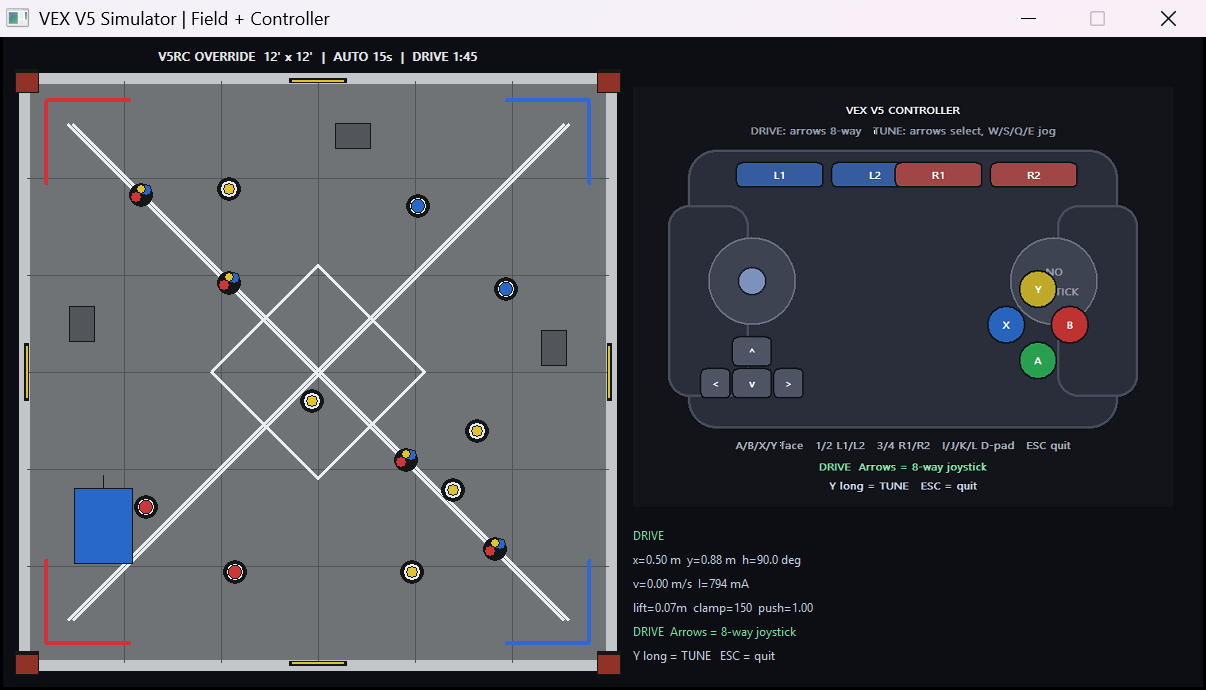
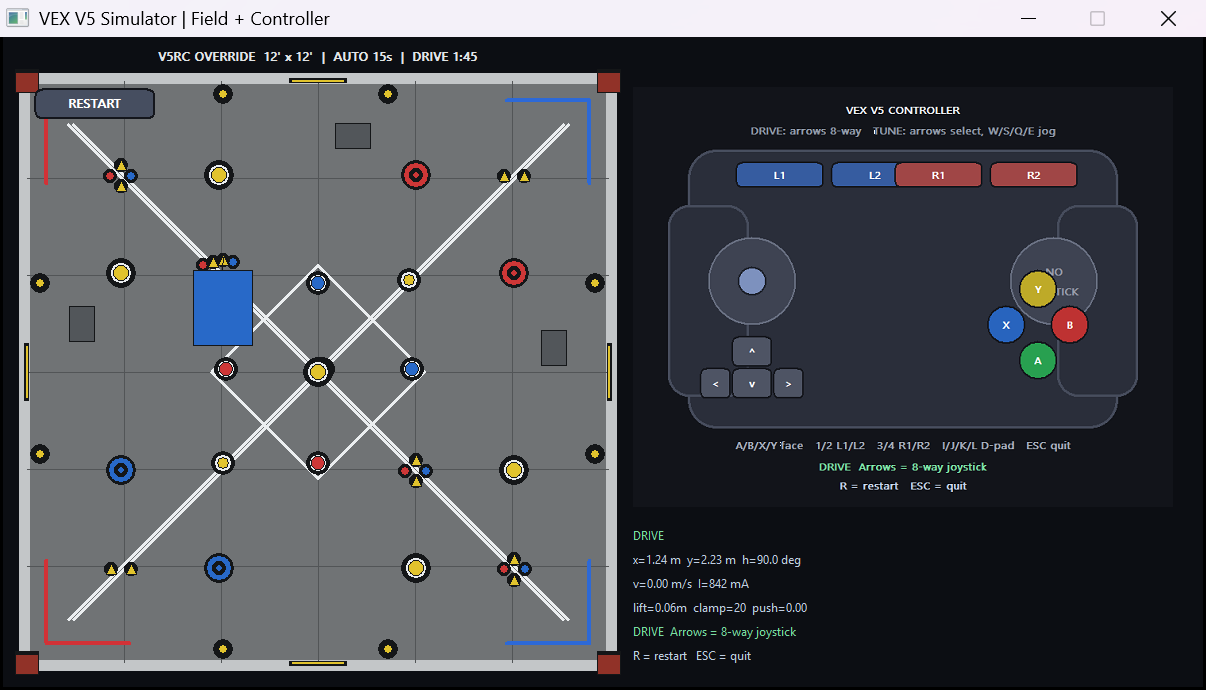
Add Toggle rotation simulation and field clipping
- Model four perimeter Toggles with contact-driven rotation, detents, and seated color

- Show Toggle face color in the UI; contacting or unseated Toggles stay neutral yellow

- Clamp out-of-bounds robots back into the field and clip trail/robot drawing

- Refresh UI example screenshots and add Toggle regression tests

diff --git a/sim/controller_ui_main.cpp b/sim/controller_ui_main.cpp
@@ -10,10 +10,12 @@
 #include "sim/hardware/sim_motor.hpp"
 #include "sim/physics/chassis_sim.hpp"
 #include "sim/physics/cone_field.hpp"
+#include "sim/physics/toggle_field.hpp"
 #include "sim/ui/controller_ui.hpp"
 #include "tuning/param_apply.hpp"
 #include "tuning/params_manager.hpp"
 
+#include <algorithm>
 #include <chrono>
 #include <cmath>
 #include <cstdio>
@@ -35,18 +37,27 @@ constexpr double kGoalPositions[7][2] = {{0.655, 0.345}, {0.510, 0.495}, {0.340,
 constexpr double kSleeveGrid[9][2] = {{1, 2}, {2, 1}, {3, 3}, {4, 5}, {5, 4},
                                       {1, 4}, {2, 5}, {4, 1}, {5, 2}};
 
-void updateFieldCollision(sim_physics::ChassisSim &physics, const sim::ControllerUi &ui,
-                          sim_physics::ConeField &cones) {
+void updateFieldCollision(sim_physics::ChassisSim &physics, sim_physics::ConeField &cones,
+                          sim_physics::ToggleField &toggles) {
     const double x = physics.getPoseXMeters();
     const double y = physics.getPoseYMeters();
     const double speed = physics.getChassisVelocityMps();
     const double heading_rad = physics.getPoseHeadingDeg() * 3.141592653589793 / 180.0;
-    cones.update(0.016, x, y, speed * std::cos(heading_rad), speed * std::sin(heading_rad));
+    const double vx = speed * std::cos(heading_rad);
+    const double vy = speed * std::sin(heading_rad);
+    cones.update(0.016, x, y, vx, vy);
+    toggles.update(0.016, x, y, vx, vy);
 
-    const bool outside = (x < 0.25 || x > kFieldSizeM - 0.25 || y < 0.25 || y > kFieldSizeM - 0.25);
+    constexpr double kBoundaryMarginM = 0.25;
+    const bool outside = (x < kBoundaryMarginM || x > kFieldSizeM - kBoundaryMarginM ||
+                          y < kBoundaryMarginM || y > kFieldSizeM - kBoundaryMarginM);
 
     // 顶到场地边界时形成“墙”；操作手反向时解除，允许倒车回场。
-    if (outside && ui.analog(io::Analog::LeftY) >= 0) {
+    if (outside) {
+        // 不管从哪个方向越界都夹回场地；否则侧向越界时会被画到控制器面板上。
+        physics.setPose(std::clamp(x, kBoundaryMarginM, kFieldSizeM - kBoundaryMarginM),
+                        std::clamp(y, kBoundaryMarginM, kFieldSizeM - kBoundaryMarginM),
+                        physics.getPoseHeadingDeg());
         physics.setCollisionObject(sim_physics::CollisionObject::Wall);
         return;
     }
@@ -121,6 +132,7 @@ int main() {
     sim_physics::ChassisSim physics(&lf, &lb, &rf, &rb, &imu);
     physics.setPose(0.50, 0.12, 90.0); // 底侧起始位，面朝场地中心
     sim_physics::ConeField cones;
+    sim_physics::ToggleField toggles;
     g_physics = &physics;
     sim::register_physics_tick(physicsTick);
 
@@ -145,6 +157,7 @@ int main() {
     auto resetSimulation = [&]() {
         physics.reset();
         cones.reset();
+        toggles.reset();
         mechanism.reset();
         sim::Battery::reset();
         sim::init_clock();
@@ -159,6 +172,7 @@ int main() {
         physics.reset();
         physics.setPose(pose.x_m, pose.y_m, pose.heading_deg);
         cones.reset();
+        toggles.reset();
         mechanism.reset();
         sim::Battery::reset();
         sim::init_clock();
@@ -201,6 +215,12 @@ int main() {
                 field.cones[i].out_of_bounds = cone.out_of_bounds;
                 field.cones[i].color = static_cast<int>(cone.color);
             }
+            field.toggle_count = toggles.count();
+            for (int i = 0; i < field.toggle_count; ++i) {
+                const sim_physics::ToggleState &toggle = toggles.get(i);
+                field.toggles[i].seated = toggle.seated;
+                field.toggles[i].color = static_cast<int>(toggle.face);
+            }
             field.mode = static_cast<int>(control::Mode::Drive);
             ui.setFieldState(field);
             ui.setStatusText("PLACEMENT", "Drag robot, then ENTER or click START");
@@ -210,7 +230,7 @@ int main() {
         }
 
         // 固定 1ms 物理步进，渲染约 60Hz。
-        updateFieldCollision(physics, ui, cones);
+        updateFieldCollision(physics, cones, toggles);
         for (int i = 0; i < 16; ++i) {
             sim::advance_time(0.001);
             mechanism.update(0.001);
@@ -240,6 +260,12 @@ int main() {
             field.cones[i].active = cone.active;
             field.cones[i].out_of_bounds = cone.out_of_bounds;
             field.cones[i].color = static_cast<int>(cone.color);
+        }
+        field.toggle_count = toggles.count();
+        for (int i = 0; i < field.toggle_count; ++i) {
+            const sim_physics::ToggleState &toggle = toggles.get(i);
+            field.toggles[i].seated = toggle.seated;
+            field.toggles[i].color = static_cast<int>(toggle.face);
         }
         field.mode = static_cast<int>(loop.getMode());
         ui.setFieldState(field);

diff --git a/sim/physics/toggle_field.cpp b/sim/physics/toggle_field.cpp
@@ -1,0 +1,114 @@
+#include "sim/physics/toggle_field.hpp"
+
+#include <algorithm>
+#include <cmath>
+
+namespace sim_physics {
+
+namespace {
+
+constexpr double kToggleRadiusM = 0.28;
+constexpr double kToggleRotationDegPerMps = 240.0;
+constexpr double kToggleSnapPerSec = 8.0;
+
+double normalizeAngle(double angle_deg) {
+    while (angle_deg < 0.0)
+        angle_deg += 360.0;
+    while (angle_deg >= 360.0)
+        angle_deg -= 360.0;
+    return angle_deg;
+}
+
+} // namespace
+
+ToggleField::ToggleField(double field_size_m) : m_field_size_m(field_size_m) {
+    reset();
+}
+
+void ToggleField::reset() {
+    const double edge = 0.18;
+    for (int i = 0; i < kToggleCount; ++i) {
+        ToggleState &toggle = m_toggles[i];
+        toggle.angle_deg = 240.0;
+        toggle.seated = true;
+        toggle.touching = false;
+        toggle.quadrant = i;
+        toggle.face = ToggleColor::Yellow;
+    }
+    m_toggles[0].x_m = 0.5 * m_field_size_m;
+    m_toggles[0].y_m = m_field_size_m - edge;
+    m_toggles[1].x_m = m_field_size_m - edge;
+    m_toggles[1].y_m = 0.5 * m_field_size_m;
+    m_toggles[2].x_m = 0.5 * m_field_size_m;
+    m_toggles[2].y_m = edge;
+    m_toggles[3].x_m = edge;
+    m_toggles[3].y_m = 0.5 * m_field_size_m;
+}
+
+double ToggleField::nearestDetent(double angle_deg) const {
+    const int index = static_cast<int>(std::round(normalizeAngle(angle_deg) / 120.0)) % 3;
+    return static_cast<double>(index * 120);
+}
+
+ToggleColor ToggleField::colorForAngle(double angle_deg) const {
+    const int index = static_cast<int>(std::round(normalizeAngle(angle_deg) / 120.0)) % 3;
+    if (index == 0)
+        return ToggleColor::Red;
+    if (index == 1)
+        return ToggleColor::Blue;
+    return ToggleColor::Yellow;
+}
+
+void ToggleField::update(double dt_sec, double robot_x_m, double robot_y_m, double robot_vx_mps,
+                         double robot_vy_mps) {
+    if (!(dt_sec > 0.0))
+        return;
+
+    for (int i = 0; i < kToggleCount; ++i) {
+        ToggleState &toggle = m_toggles[i];
+        const double dx = robot_x_m - toggle.x_m;
+        const double dy = robot_y_m - toggle.y_m;
+        const bool touching = dx * dx + dy * dy < kToggleRadiusM * kToggleRadiusM;
+        toggle.touching = touching;
+
+        if (touching) {
+            toggle.seated = false;
+            toggle.face = ToggleColor::Yellow;
+            const bool vertical = i == 1 || i == 3;
+            const double tangent_speed = vertical ? robot_vy_mps : robot_vx_mps;
+            toggle.angle_deg = normalizeAngle(toggle.angle_deg +
+                                              tangent_speed * kToggleRotationDegPerMps * dt_sec);
+            continue;
+        }
+
+        const double target = nearestDetent(toggle.angle_deg);
+        double difference = target - toggle.angle_deg;
+        if (difference > 180.0)
+            difference -= 360.0;
+        if (difference < -180.0)
+            difference += 360.0;
+        toggle.angle_deg = normalizeAngle(toggle.angle_deg +
+                                          difference * std::min(1.0, kToggleSnapPerSec * dt_sec));
+        if (std::fabs(difference) < 1.0) {
+            toggle.angle_deg = target;
+            toggle.seated = true;
+            toggle.face = colorForAngle(target);
+        } else {
+            toggle.seated = false;
+            toggle.face = ToggleColor::Yellow;
+        }
+    }
+}
+
+const ToggleState &ToggleField::get(int index) const {
+    static const ToggleState kEmpty{};
+    if (index < 0 || index >= kToggleCount)
+        return kEmpty;
+    return m_toggles[index];
+}
+
+int ToggleField::count() const {
+    return kToggleCount;
+}
+
+} // namespace sim_physics

diff --git a/sim/ui/controller_ui.cpp b/sim/ui/controller_ui.cpp
@@ -774,7 +774,7 @@ void ControllerUi::paintField(HDC dc, int x, int y, int size) {
         }
     }
 
-    // 4 个三色筒：四边中点，当前朝向为黄色。
+    // 4 个 Toggle：颜色由 ToggleField 的吸附状态决定，未就位显示黄色。
     const int bar = size / 10;
     const int bar_thick = 6;
     SelectObject(dc, black_brush);
@@ -784,11 +784,35 @@ void ControllerUi::paintField(HDC dc, int x, int y, int size) {
     Rectangle(dc, x + 1, y + size / 2 - bar / 2, x + bar_thick, y + size / 2 + bar / 2);
     Rectangle(dc, x + size - bar_thick, y + size / 2 - bar / 2, x + size - 1,
               y + size / 2 + bar / 2);
-    SelectObject(dc, yellow_brush);
+
+    auto toggle_color = [&](int index) {
+        if (m_field.toggle_count > 0 && index < m_field.toggle_count) {
+            const ToggleVisual &toggle = m_field.toggles[index];
+            if (toggle.seated && (toggle.color == 0 || toggle.color == 1))
+                return toggle.color;
+        }
+        return 2; // 未就位或黄色 Toggle
+    };
+    auto toggle_brush = [&](int color) -> HBRUSH {
+        if (color == 0)
+            return red_brush;
+        if (color == 1)
+            return blue_brush;
+        return yellow_brush;
+    };
+
+    const HBRUSH top_brush = toggle_brush(toggle_color(0));
+    const HBRUSH right_brush = toggle_brush(toggle_color(1));
+    const HBRUSH bottom_brush = toggle_brush(toggle_color(2));
+    const HBRUSH left_brush = toggle_brush(toggle_color(3));
+    SelectObject(dc, top_brush);
     Rectangle(dc, x + size / 2 - bar / 2 + 2, y + 2, x + size / 2 + bar / 2 - 2, y + bar_thick);
+    SelectObject(dc, bottom_brush);
     Rectangle(dc, x + size / 2 - bar / 2 + 2, y + size - bar_thick, x + size / 2 + bar / 2 - 2,
               y + size - 2);
+    SelectObject(dc, left_brush);
     Rectangle(dc, x + 2, y + size / 2 - bar / 2 + 2, x + bar_thick, y + size / 2 + bar / 2 - 2);
+    SelectObject(dc, right_brush);
     Rectangle(dc, x + size - bar_thick, y + size / 2 - bar / 2 + 2, x + size - 2,
               y + size / 2 + bar / 2 - 2);
 
@@ -888,6 +912,8 @@ void ControllerUi::paintField(HDC dc, int x, int y, int size) {
     draw_ghost_robot(0.90, 0.46, -90.0);
 
     // 轨迹。
+    const int robot_clip = SaveDC(dc);
+    IntersectClipRect(dc, x, y, x + size, y + size);
     if (m_trail_count > 1) {
         HPEN trail_pen = CreatePen(PS_SOLID, 2, RGB(80, 160, 220));
         SelectObject(dc, trail_pen);
@@ -943,6 +969,7 @@ void ControllerUi::paintField(HDC dc, int x, int y, int size) {
             Ellipse(dc, sx - 30, sy - 30, sx + 30, sy + 30);
         }
     }
+    RestoreDC(dc, robot_clip);
 
     HFONT font = CreateFontA(16, 0, 0, 0, FW_SEMIBOLD, FALSE, FALSE, FALSE, DEFAULT_CHARSET,
                              OUT_DEFAULT_PRECIS, CLIP_DEFAULT_PRECIS, CLEARTYPE_QUALITY,

diff --git a/sim/physics/toggle_field.hpp b/sim/physics/toggle_field.hpp
@@ -1,0 +1,45 @@
+#pragma once
+#include <cstdint>
+
+namespace sim_physics {
+
+enum class ToggleColor { Red, Blue, Yellow };
+
+struct ToggleState {
+    double x_m = 0.0;
+    double y_m = 0.0;
+    double angle_deg = 240.0; // 0=red, 120=blue, 240=yellow
+    bool seated = true;
+    bool touching = false;
+    int quadrant = 0;
+    ToggleColor face = ToggleColor::Yellow;
+};
+
+/**
+ * @brief 围边四色 Toggle 的简化旋转模型。
+ *
+ * 机器人切向推动会改变角度；离开后吸附到最近的三面之一。只有完全吸附
+ * 且没有机器人接触时，颜色才算有效，否则按规则视为黄色中立。
+ */
+class ToggleField {
+public:
+    static constexpr int kToggleCount = 4;
+
+    explicit ToggleField(double field_size_m = 3.6576);
+
+    void reset();
+    void update(double dt_sec, double robot_x_m, double robot_y_m, double robot_vx_mps,
+                double robot_vy_mps);
+
+    const ToggleState &get(int index) const;
+    int count() const;
+
+private:
+    double nearestDetent(double angle_deg) const;
+    ToggleColor colorForAngle(double angle_deg) const;
+
+    double m_field_size_m;
+    ToggleState m_toggles[kToggleCount];
+};
+
+} // namespace sim_physics

diff --git a/tests/test_sim.cpp b/tests/test_sim.cpp
@@ -7,6 +7,7 @@
 #include "sim/hardware/sim_motor.hpp"
 #include "sim/physics/chassis_sim.hpp"
 #include "sim/physics/cone_field.hpp"
+#include "sim/physics/toggle_field.hpp"
 
 #include <cmath>
 
@@ -109,6 +110,21 @@ void test_sim() {
         boundary_cones.update(0.01, boundary_cone_x, robot_y_m, 0.0, 0.5);
     }
     CHECK(boundary_cones.get(0).out_of_bounds);
+
+    // ==================== Toggle：接触旋转、离开后吸附 ====================
+    sim_physics::ToggleField toggles;
+    CHECK(toggles.get(0).seated);
+    CHECK(toggles.get(0).face == sim_physics::ToggleColor::Yellow);
+    const double toggle_x = toggles.get(0).x_m;
+    const double toggle_y = toggles.get(0).y_m;
+    for (int i = 0; i < 70; ++i)
+        toggles.update(0.01, toggle_x, toggle_y, 1.0, 0.0);
+    CHECK(toggles.get(0).touching);
+    CHECK(!toggles.get(0).seated);
+    for (int i = 0; i < 200; ++i)
+        toggles.update(0.01, 0.0, 0.0, 0.0, 0.0);
+    CHECK(toggles.get(0).seated);
+    CHECK(toggles.get(0).face == sim_physics::ToggleColor::Red);
 
     // ==================== 级联抬升 / 夹爪 / 推板 ====================
     sim::SimMechanism mechanism;

diff --git a/sim/ui/controller_ui.hpp b/sim/ui/controller_ui.hpp
@@ -16,8 +16,14 @@ struct ConeVisual {
     int color = 2;
 };
 
+struct ToggleVisual {
+    bool seated = true;
+    int color = 2;
+};
+
 struct FieldState {
     static constexpr int kConeCount = 20;
+    static constexpr int kToggleCount = 4;
     bool valid = false;
     double x_m = 0.0;
     double y_m = 0.0;
@@ -29,6 +35,8 @@ struct FieldState {
     double push_position = 0.0;
     ConeVisual cones[kConeCount];
     int cone_count = 0;
+    ToggleVisual toggles[kToggleCount];
+    int toggle_count = 0;
     int mode = 0;
 };
 
